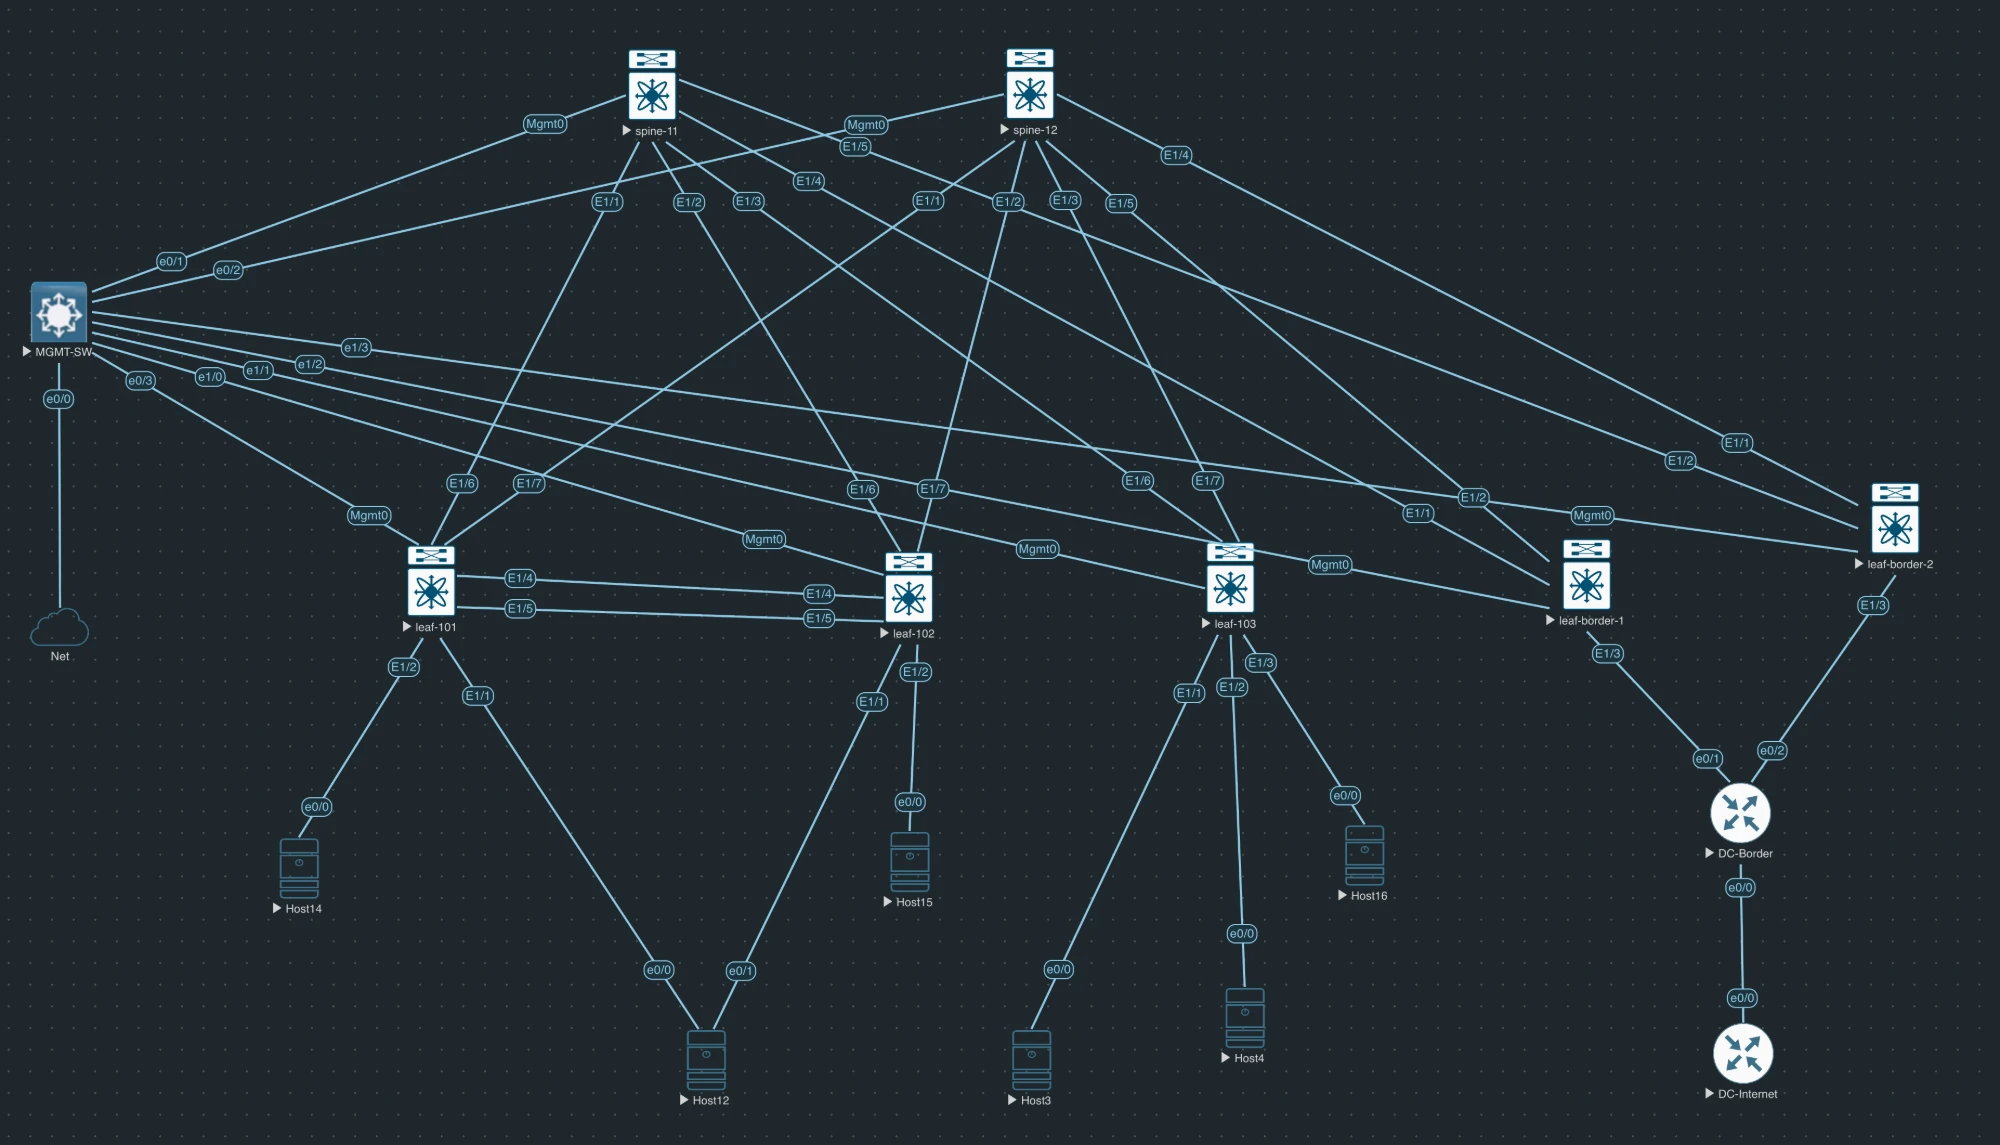
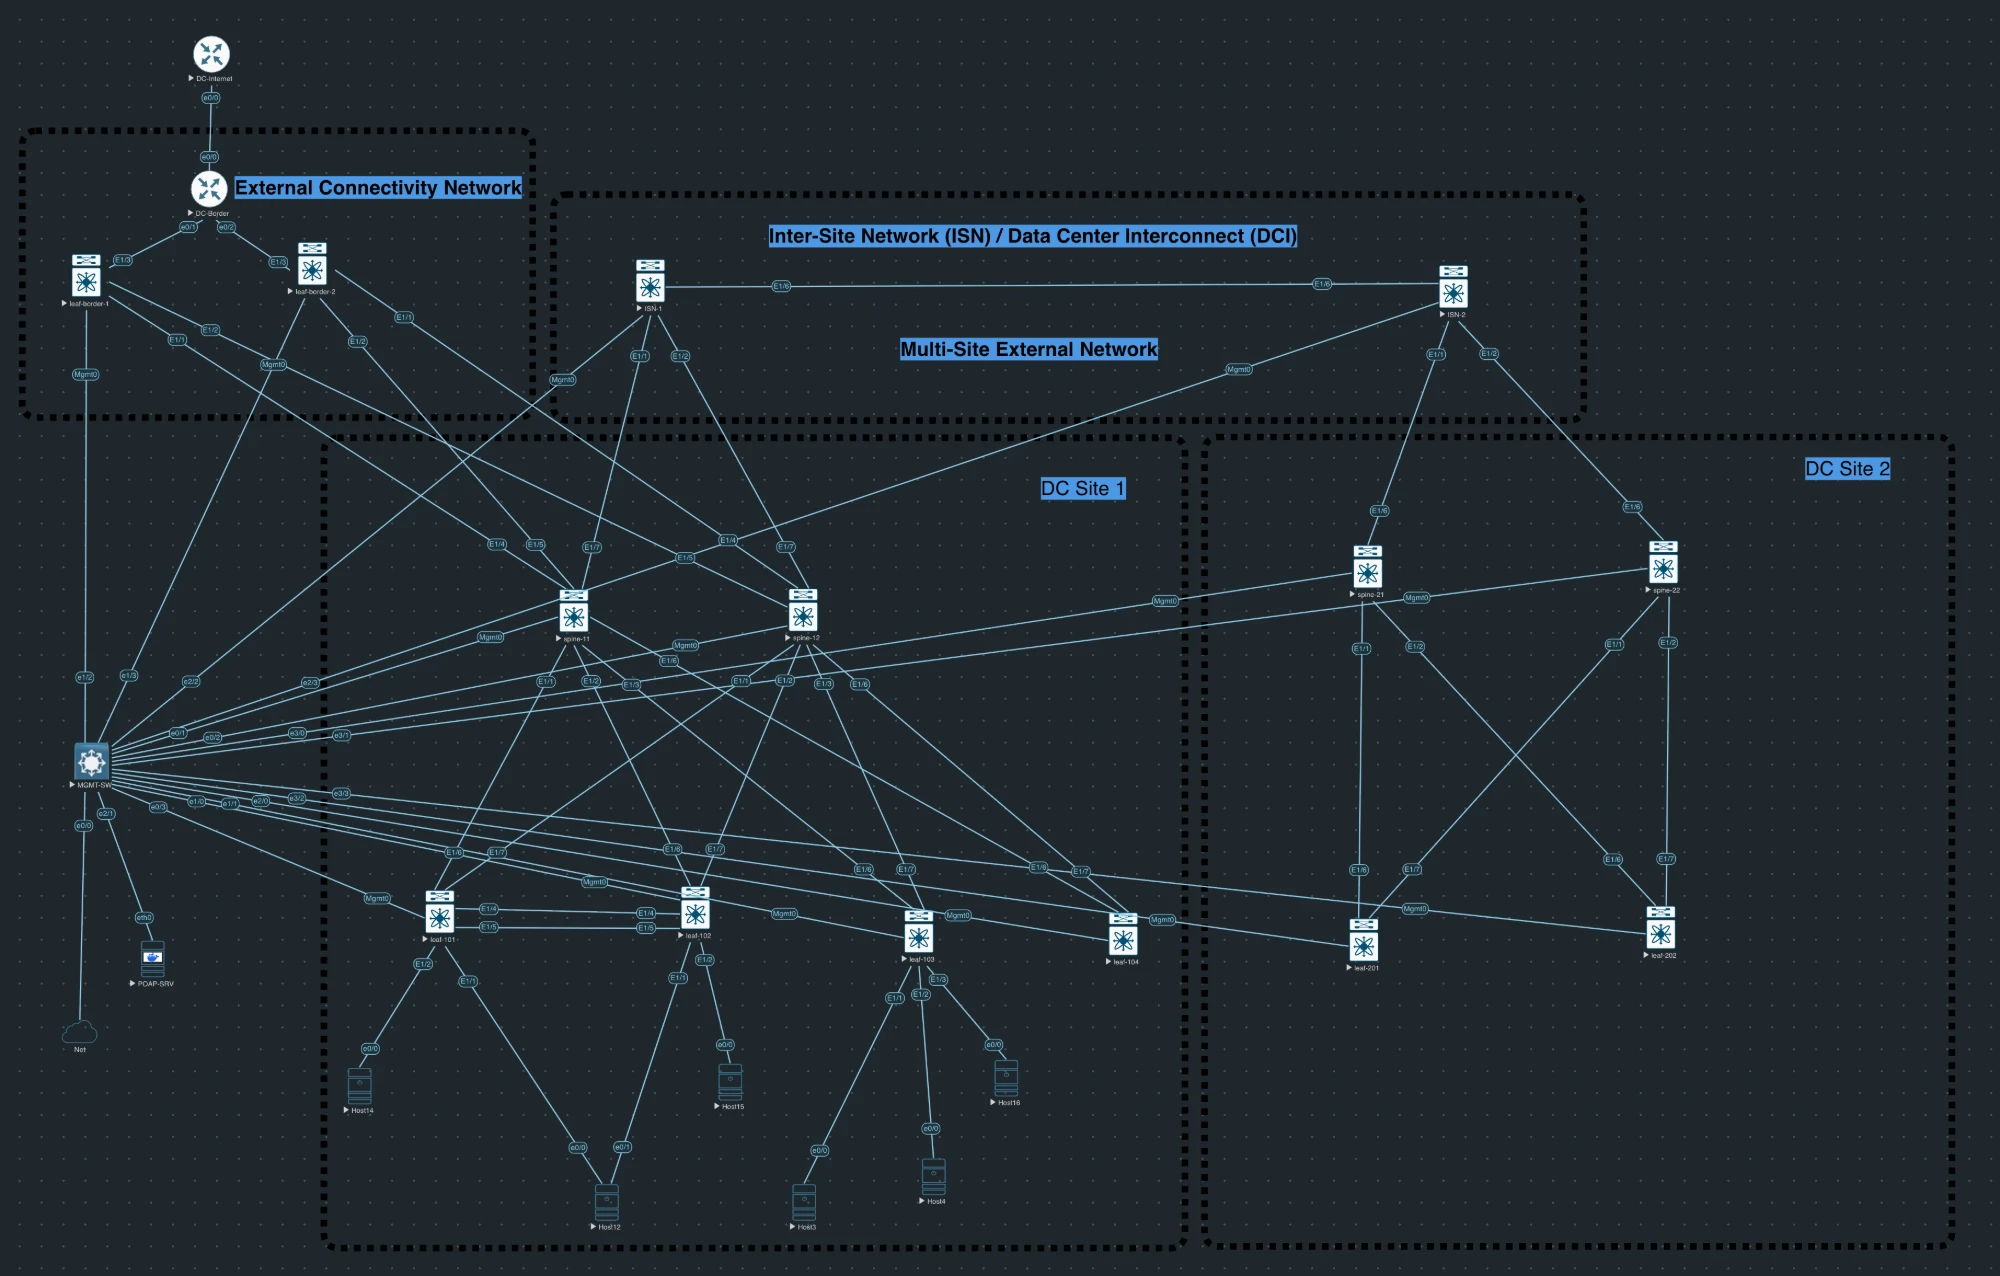
docs: show the lab of two sites in the EVE-NG and SNMP pictures
The EVE-NG canvas and the SNMP interfaces dashboard still showed the
first site of seven switches. The canvas now shows both sites, the
inter-site network and the POAP server; the dashboard shows six hours
of 25 November 2026 with all fourteen switches polled.

Their captions describe the pictures as they are now. The syslog and
traps dashboard stays: it belongs to the change of 19 November.

diff --git a/docs/fabric.md b/docs/fabric.md
@@ -42,11 +42,11 @@ off DC-1's leafs; the data plane tests log in to them and ping.
 How the two sites are joined, and what crosses between them, is on the page about
 [Multi-Site](multisite.md).
 
-![The first site on the EVE-NG canvas](../assets/eve-ng-topology.png)
+![The lab on the EVE-NG canvas](../assets/eve-ng-topology.png)
 
-*The first site as drawn in EVE-NG on 19 November 2026, including the out-of-band management
-switch on the left. Since then the canvas has gained leaf-104, DC-2, the two inter-site routers
-and the POAP server.*
+*The lab as drawn in EVE-NG: the two sites, the inter-site network above them, the external
+connection of DC-1 at the top left, and the out-of-band management switch with the POAP server on
+the left.*
 
 ## Underlay
 

diff --git a/README.md b/README.md
@@ -102,10 +102,9 @@ arrives and the approval stops counting.*
 
 ![The fabric on the EVE-NG canvas](assets/eve-ng-topology.png)
 
-*The first site as it stood on 19 November 2026: seven Nexus 9000v, an external router beyond the
-border leafs, and six lab hosts that the data plane tests log in to. The lab now holds fourteen
-switches: a fourth leaf here, the four switches of DC-2 and the two inter-site routers.
-→ [The topology today](docs/fabric.md#topology)*
+*The lab in EVE-NG: fourteen Nexus 9000v in two sites and the inter-site network, an external
+router beyond DC-1's border leafs, six lab hosts that the data plane tests log in to, and the
+POAP server next to the management switch. → [The topology](docs/fabric.md#topology)*
 
 ## Technology
 

diff --git a/docs/observability.md b/docs/observability.md
@@ -153,8 +153,8 @@ pull request, not a habit of ignoring it.
 
 ![The SNMP interfaces dashboard](../assets/grafana-snmp-interfaces.png)
 
-*SNMP interfaces, six hours on 19 November 2026, when the fabric had seven switches: polling works
-for all of them, every enabled port is up, no alarm fires, and the traffic of a quiet lab.*
+*SNMP interfaces, six hours on 25 November 2026: polling works for all fourteen switches, every
+enabled port is up, no alarm fires, and the traffic of a quiet lab.*
 
 ![The syslog and traps dashboard](../assets/grafana-syslog-traps.png)
 

diff --git a/docs/setup.md b/docs/setup.md
@@ -22,9 +22,7 @@ follow in the same order.
 | Access | The web interface over HTTPS with a real certificate; consoles firewalled to named hosts |
 | Care | Backed up before changes; patched by hand once a month with the lab stopped |
 
-![The first site in EVE-NG](../assets/eve-ng-topology.png)
-
-*The first site, as it stood on 19 November 2026.*
+![The lab in EVE-NG](../assets/eve-ng-topology.png)
 
 ## 2. Day zero on each switch
 
